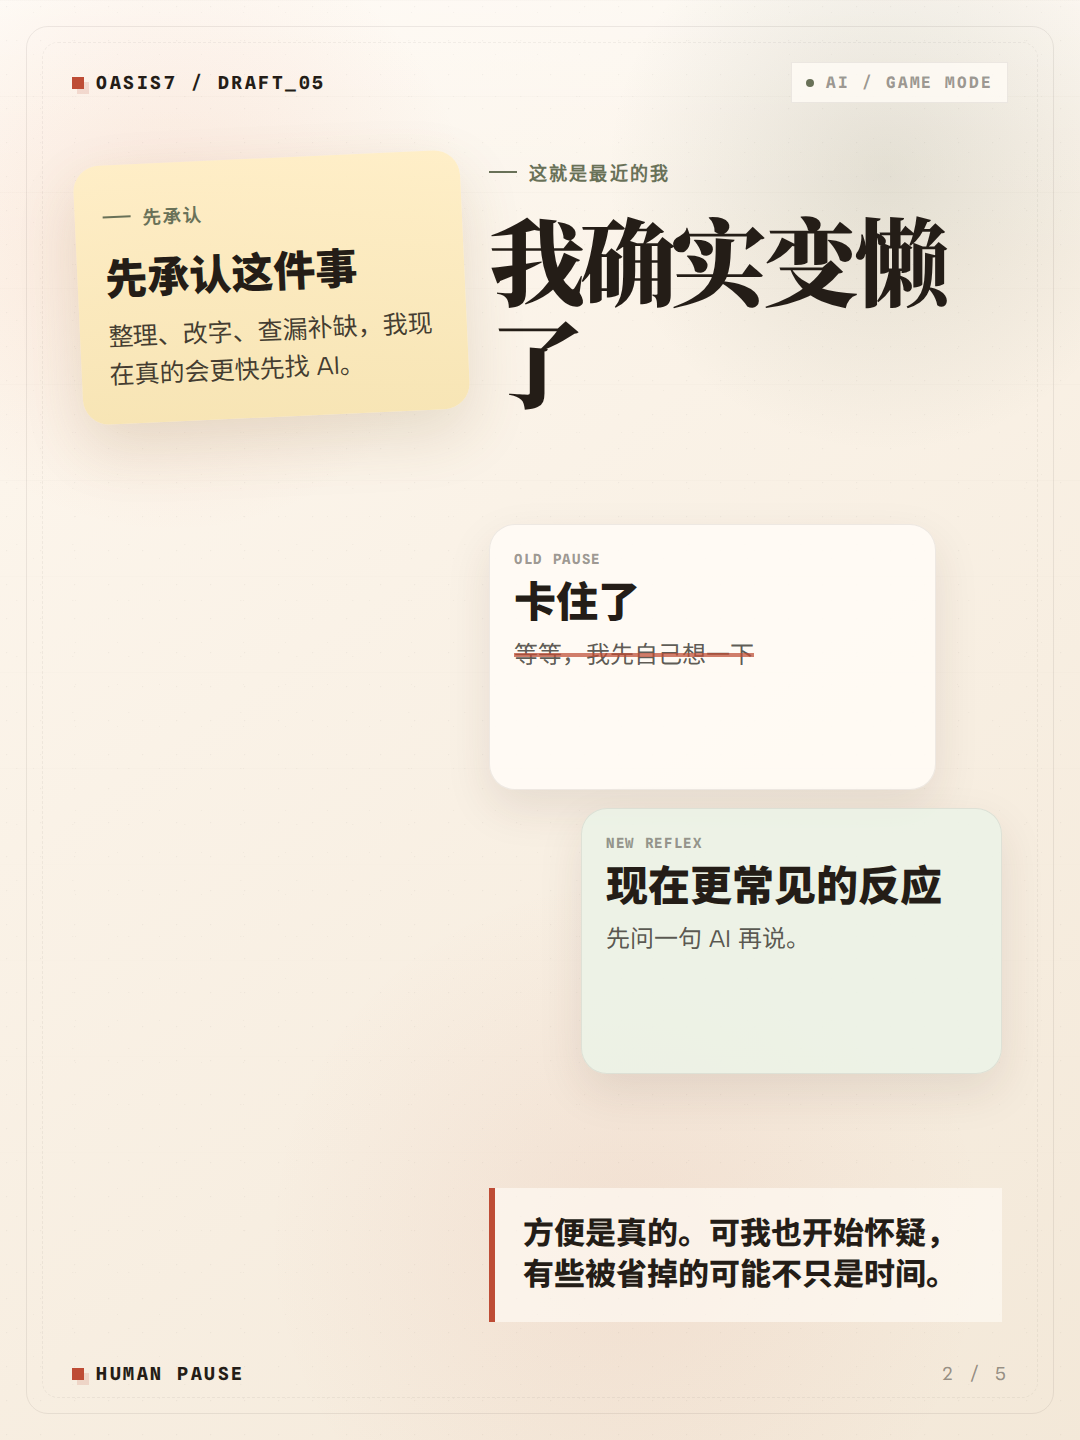
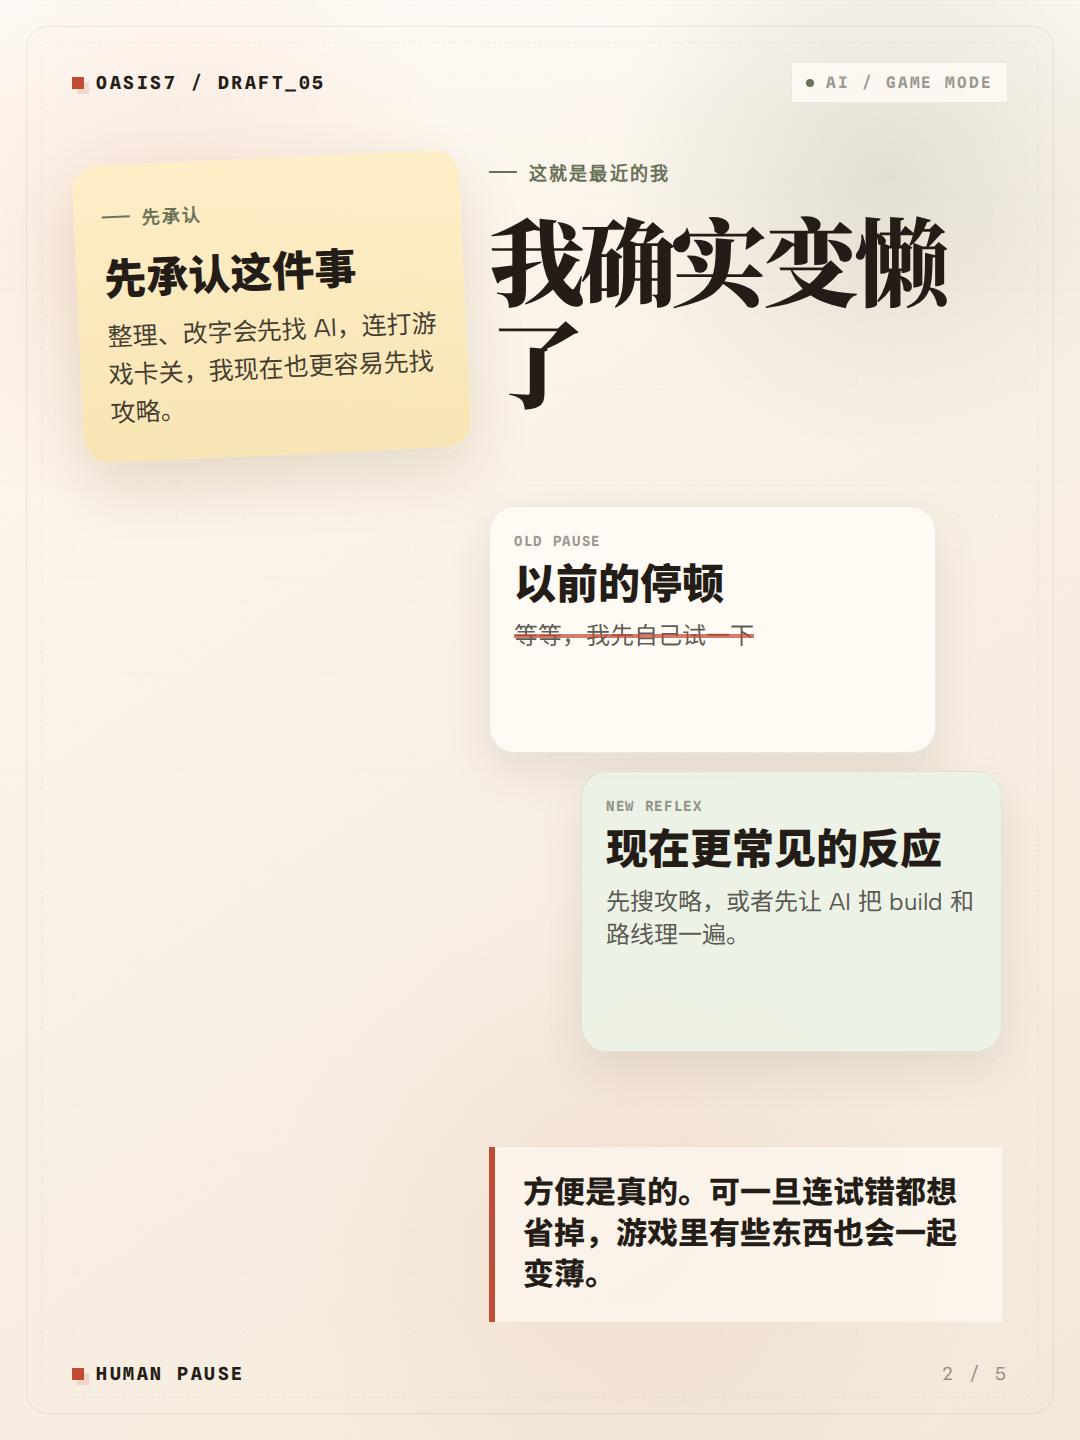
Refine Xiaohongshu AI laziness game framing

diff --git a/site/social/xiaohongshu-ai-laziness-game-mode.html b/site/social/xiaohongshu-ai-laziness-game-mode.html
@@ -784,23 +784,23 @@
         {
           kind: "cover",
           title: 'AI时代，<br />你变<span class="accent">"懒"</span>了么',
-          subtitle: "我最近越来越常碰到这个瞬间。卡住了，第一反应已经不是自己拧一会儿，而是先问一句 AI。",
-          noteTitle: "我确实有点变懒了",
-          noteBody: "不是不做事了。是很多原本会自己扛一下的停顿，被我直接跳过去了。",
-          compareLeft: "以前会先自己拧一会儿",
-          compareRight: "现在经常先问一句 AI",
-          prompt: "如果连这个停顿都在消失，游戏还该把什么留给人？",
+          subtitle: "我最近越来越常碰到这个瞬间。不只是工作卡住会先问 AI，连玩游戏都更想先搜答案。",
+          noteTitle: "我发现不只是在工作里",
+          noteBody: "有时候连玩游戏，我都会先想：有没有更快的攻略、配装和最优解。",
+          compareLeft: "以前卡关会先自己试一会儿",
+          compareRight: "现在经常先搜攻略 / 问 AI",
+          prompt: "如果连玩游戏都越来越想直接拿答案，游戏还该把什么留给人？",
         },
         {
           kind: "chat",
           title: "我确实变懒了",
           stickyTitle: "先承认这件事",
-          stickyBody: "整理、改字、查漏补缺，我现在真的会更快先找 AI。",
-          userTitle: "卡住了",
-          userBody: '<span class="strike">等等，我先自己想一下</span>',
+          stickyBody: "整理、改字会先找 AI，连打游戏卡关，我现在也更容易先找攻略。",
+          userTitle: "以前的停顿",
+          userBody: '<span class="strike">等等，我先自己试一下</span>',
           aiTitle: "现在更常见的反应",
-          aiBody: "先问一句 AI 再说。",
-          tail: "方便是真的。可我也开始怀疑，有些被省掉的可能不只是时间。",
+          aiBody: "先搜攻略，或者先让 AI 把 build 和路线理一遍。",
+          tail: "方便是真的。可一旦连试错都想省掉，游戏里有些东西也会一起变薄。",
         },
         {
           kind: "allowed",
@@ -816,18 +816,18 @@
               body: "卡在表述的时候，让 AI 帮我起个头也没什么。",
             },
             {
-              title: "重复活",
-              body: "能被稳定复制的劳动，不值得每次都硬耗。",
+              title: "刷材料",
+              body: "游戏里那些纯重复劳动，确实也不值得每次都硬熬。",
             },
           ],
           summary: "这些懒没问题",
           summaryBody: "因为被接走的主要还是体力活，不是那个决定怎么想的瞬间。",
-          list: ["整理", "改字", "重复活"],
+          list: ["整理", "改字", "刷材料"],
         },
         {
           kind: "question",
           title: "但如果 AI 接走的<br />不只是动作",
-          body: "而是连“先自己判断一下”这一步也一起接走了，那游戏模式到底还要把什么留给人？",
+          body: "而是连“先自己试一下”“先自己判断一下”这两步也一起接走了，那游戏模式到底还要把什么留给人？",
           ladder: [
             {
               label: "先被接走的",
@@ -836,22 +836,22 @@
             },
             {
               label: "我开始警惕的",
-              title: "判断",
-              body: "什么时候该停，怎么选方向，这部分一丢，人就薄了。",
+              title: "试错 + 判断",
+              body: "什么时候该停、怎么试、怎么选方向，这部分一丢，游戏就容易只剩答案。",
             },
           ],
           sideTitle: "我最近一直在想",
-          sideBody: "游戏是不是不该只继续追求更省事，而要故意把一些关键位置留给玩家。",
-          tokens: ["操作感", "判断感", "承担后果"],
+          sideBody: "游戏是不是不该只继续追求更省事，而要故意把摸索、判断和后果留给玩家自己来扛。",
+          tokens: ["摸索感", "判断感", "承担后果"],
         },
         {
           kind: "closing",
           title: "你觉得最该留给人的<br />到底是什么？",
-          body: "如果 AI 能接走越来越多动作，你会更想把哪一块死死留在人手里？",
+          body: "如果 AI 让人连玩游戏都越来越想直接拿答案，你会更想把哪一块死死留在人手里？",
           options: [
             {
-              title: "操作感",
-              body: "亲手按下去、自己完成那一下，游戏才成立。",
+              title: "摸索感",
+              body: "先自己试、自己绕、自己找到路，这部分不能一下全跳过。",
             },
             {
               title: "判断感",
@@ -862,7 +862,7 @@
               body: "选完以后要自己扛，这一下才像在玩。",
             },
           ],
-          footer: "我自己现在会更在意后两者。你呢？",
+          footer: "我自己现在会更在意判断和承担后果。你呢？",
         },
       ];
 
@@ -1032,7 +1032,7 @@
                     <p style="margin-top: 18px;">${slide.sideBody}</p>
                   </div>
                   <div class="token-cloud">
-                    <span class="token">操作感</span>
+                    <span class="token">摸索感</span>
                     <span class="token hot">判断感</span>
                     <span class="token soft">承担后果</span>
                   </div>

diff --git a/doc/readme/governance/readme-xiaohongshu-ai-laziness-game-mode-post-pack-2026-03-26.md b/doc/readme/governance/readme-xiaohongshu-ai-laziness-game-mode-post-pack-2026-03-26.md
@@ -11,10 +11,10 @@
 - Review Status: `ready_for_publish`
 
 ## 使用说明
-- 这是第五篇，主要回答“AI 时代，人会不会慢慢把一部分判断也丢给 AI”。
+- 这是第五篇，主要回答“AI 时代，人会不会不只在工作里省事，连玩游戏也越来越想跳过判断和试错”。
 - 这篇的目标不是做泛 AI 焦虑帖，也不是做工具测评，而是借一个很多人都能代入的真实感受，把讨论引到：
   - 哪些“懒”其实没问题。
-  - 哪些“懒”会让人的判断感变薄。
+  - 哪些“懒”会让人在游戏里越来越少自己试、自己想、自己承担。
   - 如果越来越多动作都能被 AI 接手，游戏模式还应该把什么留给人。
 - 语气仍然要像真人开发者在说自己的真实变化，不像趋势报告，也不像大道理输出。
 - 不要出现以下表述：
@@ -37,32 +37,48 @@ AI时代，你变"懒"了么
 用了 AI 以后，
 我确实变懒了一点。
 
-不是那种什么都不干的懒。
-而是以前卡住了，
-我会先自己拧一会儿。
-现在很多时候，
+而且不只是工作的时候。
+有时候连玩游戏，
+我都会下意识想更省事一点。
+
+以前卡关了，
+我会自己先试几次，
+乱走一圈，
+或者硬拧一会儿。
+
+现在有些时候，
 第一反应已经变成：
-先问一句 AI。
+先搜一下攻略，
+或者先问一句 AI，
+先把配装、路线、最优解看完再说。
 
 有些懒我觉得没问题。
-整理资料、改字、重复活，
+整理资料、改字、刷材料，
+或者游戏里那些纯刷材料的劳动，
 本来就不值得硬耗。
 
 但我最近会在意另一种懒。
 
-因为 AI 接过去的，
-有时候不只是动作，
-还有判断。
+因为一旦省掉的
+不只是动作，
+而是试错、判断，
+甚至做错以后自己承担后果那一下，
+游戏里最有意思的东西
+可能也一起被省掉了。
 
-有时候连那句
-“等等，我先自己想一下”
-都被省掉了。
+你会发现，
+以前那种
+“等等，我先自己试一下”
+“我想看看自己能不能过”
+这种停顿，
+开始变少了。
 
 所以我最近老在想：
-如果 AI 会把越来越多动作接过去，
+如果 AI 让人连玩游戏
+都越来越想直接拿答案，
 那游戏还应该把什么留给人？
 
-是操作感？
+是摸索感？
 是判断感？
 还是做了选择以后，
 要自己承担后果？
@@ -75,18 +91,20 @@ AI 时代下的游戏模式，
 
 反而是有些地方，
 要故意留给玩家。
-让你自己选，
+让你自己试，
+自己选，
 自己赌，
 也自己扛那一下后果。
 
 你会有这种感觉吗？
 用了 AI 之后，
-你觉得自己是从哪一步开始变懒的？
+你觉得自己连玩游戏
+都是从哪一步开始变懒的？
 ```
 
 ## 评论区引导
 ```text
-如果 AI 能接走越来越多动作，你觉得游戏最该留给人的是什么：操作感、判断感，还是承担后果？
+如果 AI 让人连玩游戏都越来越想直接拿答案，你觉得最不该省掉的是什么：摸索感、判断感，还是承担后果？
 ```
 
 ## 卡片文案
@@ -101,8 +119,10 @@ AI时代，
 ```text
 我确实变懒了
 
-以前会先自己拧一会儿
-现在会先问一句 AI
+而且不只是在工作里
+
+以前卡关会先自己试
+现在会先搜攻略 / 问 AI
 ```
 
 ### 第 3 页 / 哪些懒没问题
@@ -112,7 +132,8 @@ AI时代，
 
 整理资料
 改字
-重复活
+刷材料
+刷材料
 
 这些本来就不值得硬耗
 ```
@@ -122,7 +143,7 @@ AI时代，
 但如果 AI 接走的
 不只是动作
 
-还有判断
+还有试错和判断
 
 那游戏
 还应该把什么留给人？
@@ -131,7 +152,7 @@ AI时代，
 ### 第 5 页 / 收束页
 ```text
 你觉得最该留给人的
-是操作感
+是摸索感
 判断感
 还是承担后果？
 ```
@@ -145,7 +166,7 @@ AI时代，
 ### 推荐视觉搭配
 - 采用 `暖纸面自述 + 聊天框停顿 + 单一问题钩子` 的方向。
 - 画面关系：
-  - 前两页更像开发者把自己工作流里一个小变化摊开来讲。
+  - 前两页更像开发者把“工作会先问 AI，连玩游戏也会先搜答案”这个变化摊开来讲。
   - 第四页开始突然把话题从“我变懒了”拐到“那游戏还该把什么留给人”。
 - 为什么这套更贴本帖：
   - 标题本身很像平台讨论帖，不需要再用复杂系统图去解释。
@@ -155,6 +176,7 @@ AI时代，
 ### 视觉方向
 - 不要做“AI 焦虑海报”，也不要堆机器人、芯片、脑回路之类老套意象。
 - 画面更像一个人盯着自己的工作流，突然意识到某些判断也开始外包了。
+- 画面也可以出现很轻的“攻略 / 配装 / 最优解 / 提示框”痕迹，让“连玩游戏也在省事”更具体。
 - 可以使用：
   - 更少元素，更强标题
   - 便签、输入框、删除线、聊天框停顿感
@@ -186,6 +208,7 @@ AI时代，
 ## 发布备注
 - 这篇一定要先承认一点真实变化，不要上来就教育别人“人类不能偷懒”。
 - 重点不是批判懒，而是区分“哪些懒没问题，哪些懒会把判断感也带走”。
+- 最好明确提到“连玩游戏也会想先搜攻略 / 看最优解 / 让 AI 总结 build”，不然游戏这一层会显得太后置。
 - 讨论必须往游戏模式收，不要停在泛工具效率和生产力焦虑。
 - 不要写成“我们的游戏已经给出了完整答案”，当前只能保持设计判断层表达。
 - 评论区优先接“最该留给人的是什么”这个问题，不要在评论区扩展成大而泛的 AI 伦理辩论。
@@ -194,5 +217,5 @@ AI时代，
 
 ## 后续衔接建议
 1. 如果评论区很多人在说“最该留给人的是判断”，下一篇可以拆“判断感在游戏里到底是什么”。
-2. 如果评论区很多人在说“操作感才是游戏最后的堡垒”，下一篇可以拆“AI 时代操作感为什么反而更值钱”。
+2. 如果评论区很多人在说“摸索感才是游戏最后的堡垒”，下一篇可以拆“为什么我不想让游戏一上来就把答案给满”。
 3. 如果评论区很多人在讨论“承担后果”，下一篇可以拆“为什么我越来越在意游戏里的后果感”。

diff --git a/doc/devlog/2026-03-26.md b/doc/devlog/2026-03-26.md
@@ -330,7 +330,7 @@
   - 新增 `doc/readme/governance/readme-xiaohongshu-ai-laziness-game-mode-post-pack-2026-03-26.md`，把话题从“AI 让人变懒”收口到“如果 AI 接走越来越多动作，游戏模式还应该把什么留给人”，并固定标题、正文、5 页轮播结构与评论区引导。
   - 同步回写 `doc/readme/prd.md`、`doc/readme/project.md`、`doc/readme/prd.index.md`、`doc/readme/README.md` 与小红书 runbook source docs，保证第五篇素材包在模块入口、任务追踪与渠道 SOP 中可达。
 - 执行验证：
-  - `rg -n "AI时代，你变\"懒\"了么|以前我会自己硬想|哪些懒是好的|游戏还应该把什么留给人|操作感|判断感|承担后果" doc/readme/governance/readme-xiaohongshu-ai-laziness-game-mode-post-pack-2026-03-26.md`
+  - `rg -n "AI时代，你变\"懒\"了么|先搜一下攻略|连玩游戏|摸索感|判断感|承担后果" doc/readme/governance/readme-xiaohongshu-ai-laziness-game-mode-post-pack-2026-03-26.md`
   - `./scripts/doc-governance-check.sh`
   - `git diff --check`
 - 遗留事项：
@@ -360,3 +360,26 @@
   - `git diff --check`
 - 遗留事项：
   - 当前导图基于本地 HTTP 预览导出；若发布前还要继续压字，优先调整第 1 页和第 2 页标题换行，不要先去加更多装饰元素。
+
+## 11:26:44 CST / liveops_community
+- 完成内容：
+  - 根据“整体文案要更结合游戏，连玩游戏都变懒了”的反馈，把第五篇从泛工作流偷懒，改成“连打游戏卡关都会先搜攻略、看 build、拿最优解”的更具体版本。
+  - 同步把评论区问题收口为“最不该省掉的是什么：摸索感、判断感，还是承担后果”，让主题更直接落在游戏体验而不是工具效率。
+  - 回写第五篇素材包与轮播 HTML，准备重新导出配图。
+- 执行验证：
+  - `rg -n "AI时代，你变\"懒\"了么|先搜一下攻略|连玩游戏|摸索感|判断感|承担后果" doc/readme/governance/readme-xiaohongshu-ai-laziness-game-mode-post-pack-2026-03-26.md`
+- 遗留事项：
+  - 需要把更新后的第五篇重新导图，确认新文案在手机阅读下仍然清楚。
+
+## 11:34:12 CST / viewer_engineer
+- 完成内容：
+  - 按游戏化新文案重导第五篇视觉稿，覆盖输出 `site/social/xiaohongshu-ai-laziness-game-mode-slide1.png` 到 `site/social/xiaohongshu-ai-laziness-game-mode-slide5.png`。
+  - 抽查第 2、4、5 页，确认“先搜攻略 / 试错 + 判断 / 摸索感”三处核心信息在手机尺寸下仍可读，没有因为加了游戏语境而挤爆版面。
+- 执行验证：
+  - `agent-browser set viewport 1080 1440`
+  - `agent-browser open http://127.0.0.1:8765/site/social/xiaohongshu-ai-laziness-game-mode.html?slide=2`
+  - `agent-browser open http://127.0.0.1:8765/site/social/xiaohongshu-ai-laziness-game-mode.html?slide=4`
+  - `agent-browser open http://127.0.0.1:8765/site/social/xiaohongshu-ai-laziness-game-mode.html?slide=5`
+  - `agent-browser screenshot /home/scc/oasis7-codex/site/social/xiaohongshu-ai-laziness-game-mode-slide5.png`
+- 遗留事项：
+  - 如果还要继续压字，优先缩第 2 页左上便签和第 4 页副文，不要动第 5 页三个选项框的结构。

diff --git a/doc/readme/project.md b/doc/readme/project.md
@@ -356,7 +356,7 @@
     - `site/social/xiaohongshu-ai-laziness-game-mode-slide5.png`
     - `doc/devlog/2026-03-26.md`
   - 验收命令 (`test_tier_required`):
-    - `rg -n "AI时代，你变\"懒\"了么|以前我会自己硬想|哪些懒是好的|游戏还应该把什么留给人|操作感|判断感|承担后果" doc/readme/governance/readme-xiaohongshu-ai-laziness-game-mode-post-pack-2026-03-26.md`
+    - `rg -n "AI时代，你变\"懒\"了么|先搜一下攻略|连玩游戏|摸索感|判断感|承担后果" doc/readme/governance/readme-xiaohongshu-ai-laziness-game-mode-post-pack-2026-03-26.md`
     - `./scripts/doc-governance-check.sh`
     - `git diff --check`
 
